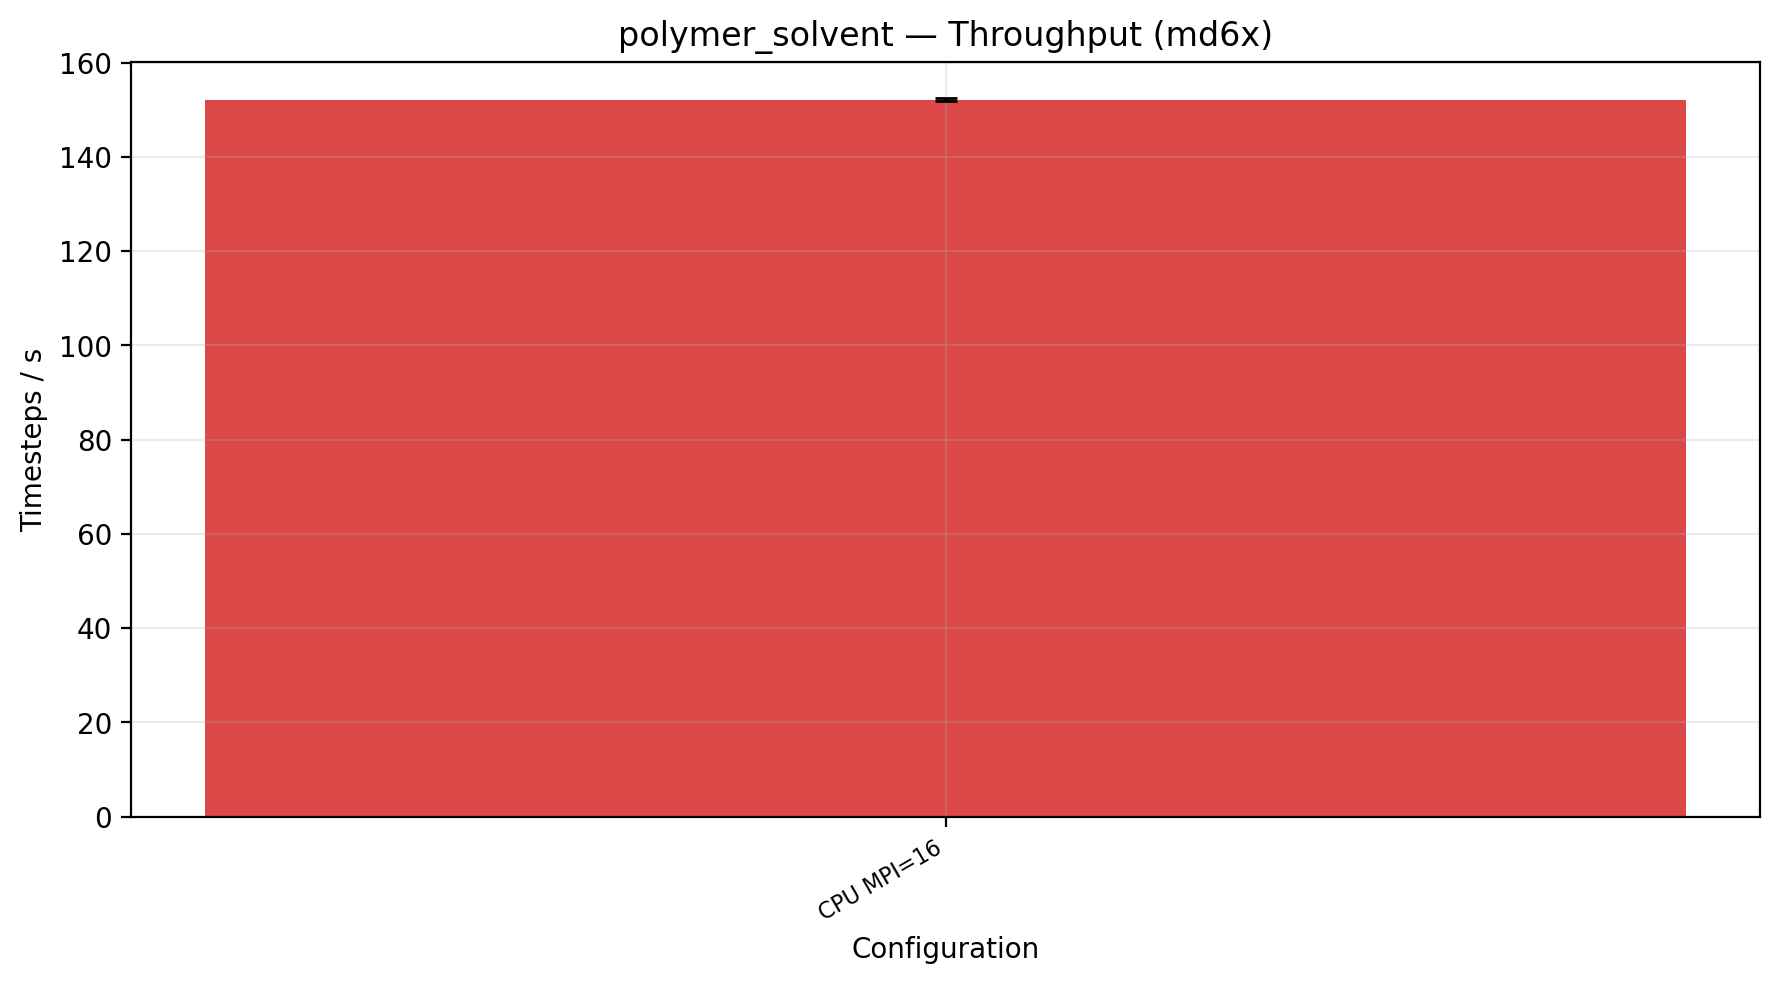
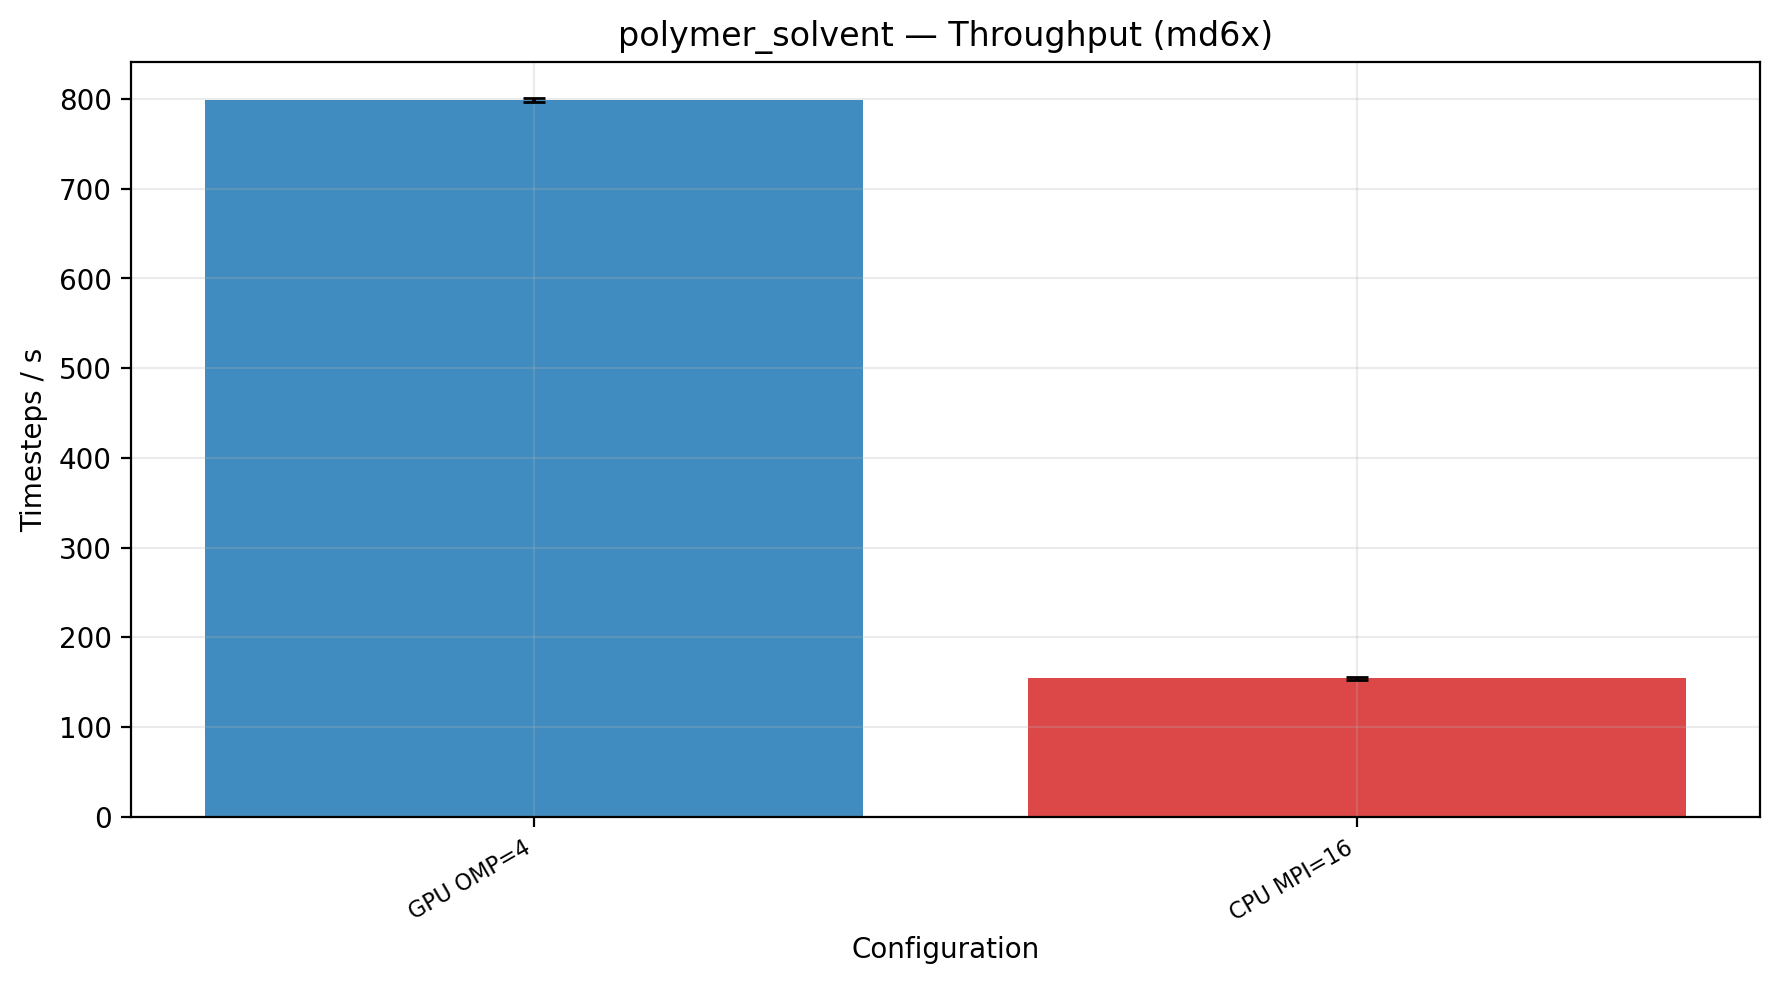
Benchmarks: md6x polymer + polymer_solvent GPU results
Rerun with the Kokkos OpenMP build: GPU 1.07x (polymer) and 1.14x
(polymer_solvent) faster than the old baseline.

diff --git a/BENCHMARKS.md b/BENCHMARKS.md
@@ -253,17 +253,20 @@ md67, i9-14900K + RTX 4090, same settings as the May baseline
 | | new / old TPS |
 |---|---|
 | GPU, planar + solvent, all N | 1.10 – 1.13 |
+| GPU, polymer / polymer_solvent | 1.07 / 1.14 |
 | CPU, planar | 1.24 – 1.57 |
 | CPU, solvent | 1.06 – 1.41 |
-| CPU, polymer, polymer_solvent | 1.14 – 1.19 |
+| CPU, polymer, polymer_solvent | 1.11 – 1.17 |
 
 `ab_old_new.sh` on the same idle GPU (planar N=2500): old 2019 / 2080,
 new 2293 / 2323 timesteps/s. Largest systems on the GPU: planar N=102400
-511 TPS, solvent N=269380 671 TPS.
+511 TPS, solvent N=269380 671 TPS, polymer N=99280 795 TPS, polymer_solvent
+N=229345 799 TPS.
 
-This sweep used a build without the Kokkos OpenMP backend, so the GPU runs
-with OMP 4/8 failed: there are GPU rows only for OMP 1, and none for polymer
-and polymer_solvent (which use OMP 4 only).
+planar and solvent were run with a build without the Kokkos OpenMP backend,
+so they have GPU rows for OMP 1 only (OMP 4/8 make no difference on the GPU,
+see md4x). polymer and polymer_solvent were rerun with the OpenMP-enabled
+build.
 
 ### md4x results (patch_13Nov2026, Nov 2026)
 
